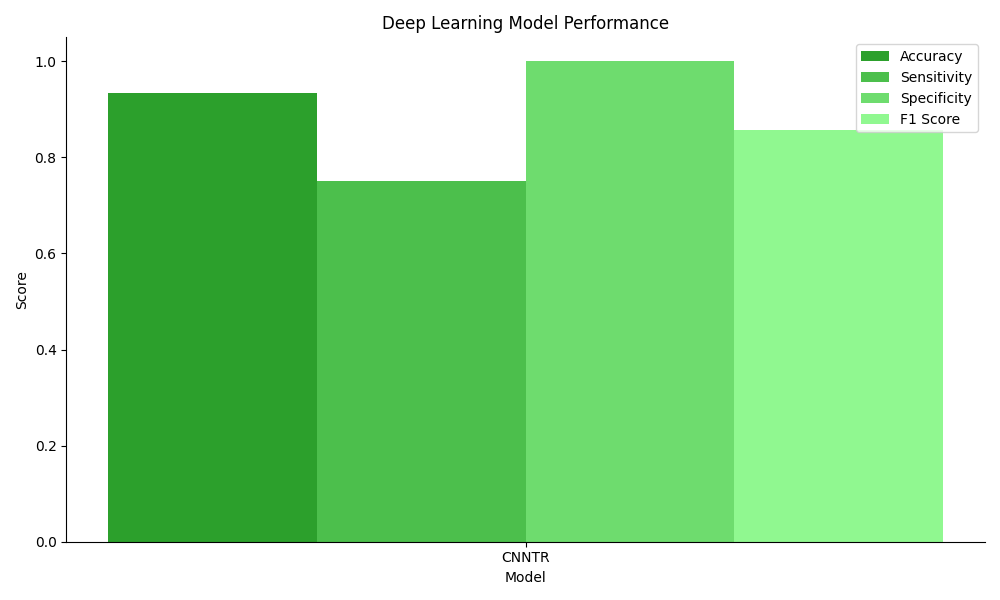
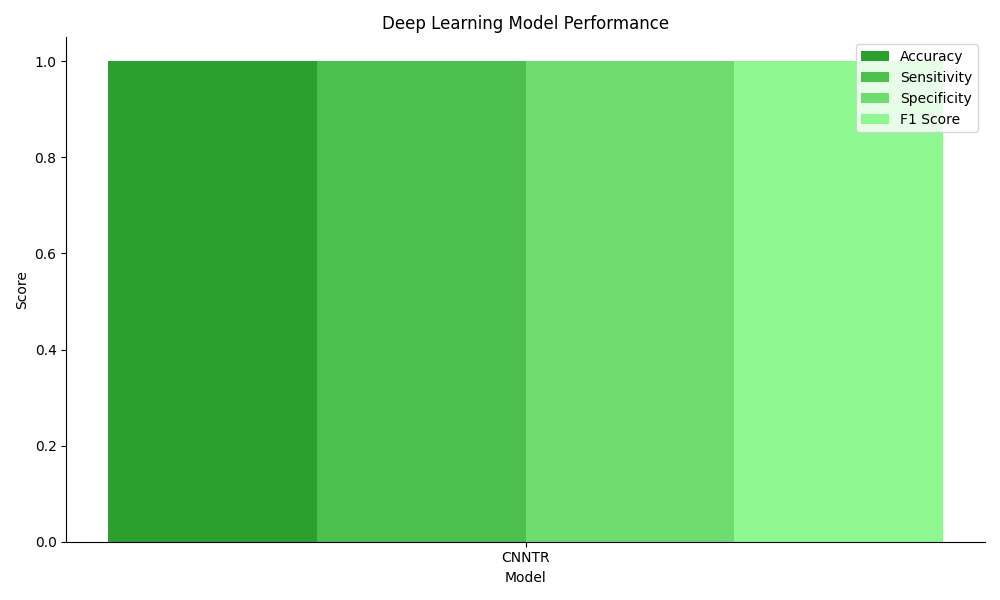
latest

Changed region(s): [[0.093, 0.09, 0.527, 0.3], [0.713, 0.09, 0.868, 0.24]]

diff --git a/scripts/plot/DL/pre_post_read_LOOCV.py b/scripts/plot/DL/pre_post_read_LOOCV.py
@@ -28,6 +28,8 @@ def loop_iteration_find_best_performance_id(total_itr, model, verbose=True):
     best_acc = 0
     best_itr = 0
     final_wrong_index = []
+    print('| Iteration | Accuracy | Wrong Label Index |')
+    print('| ---- | ---- | ---- |')
     for index in range(total_itr):
         first_acc = []
         wrong_index = []
@@ -46,13 +48,13 @@ def loop_iteration_find_best_performance_id(total_itr, model, verbose=True):
             best_acc = mean_acc
             final_wrong_index = wrong_index.copy()
         print(
-            f'INDEX: {index} | mean: {mean_acc} | wrong subject: {wrong_index}')
+            f' {index} | {mean_acc:.4f} | {wrong_index}')
     return final_wrong_index
 
 
 # According to the result, find the wrong labeled index
 comb_cnn_total_itr = 10
-cnntr_total_itr = 1
+cnntr_total_itr = 5
 # wrong_index_mcnet = loop_iteration_find_best_performance_id(
 #     comb_cnn_total_itr, 'comb_cnn', verbose=False)
 wrong_index_cnntr = loop_iteration_find_best_performance_id(
@@ -152,6 +154,10 @@ plt.savefig(output_fold+f'/result.png')
 def generate_md_table():
     print('| Model Name | Accuracy | Sensitivity | Specificity | F1 Score |')
     print('|------------|----------|-------------|-------------|----------|')
+    
+    # print('| Dataset | Model Name | Accuracy | Sensitivity | Specificity | F1 Score |')
+    # print('|------------|------------|----------|-------------|-------------|----------|')
+    
     for model_name in models:
         print(f'| {model_name}      |', end='')
         for i in range(4):
